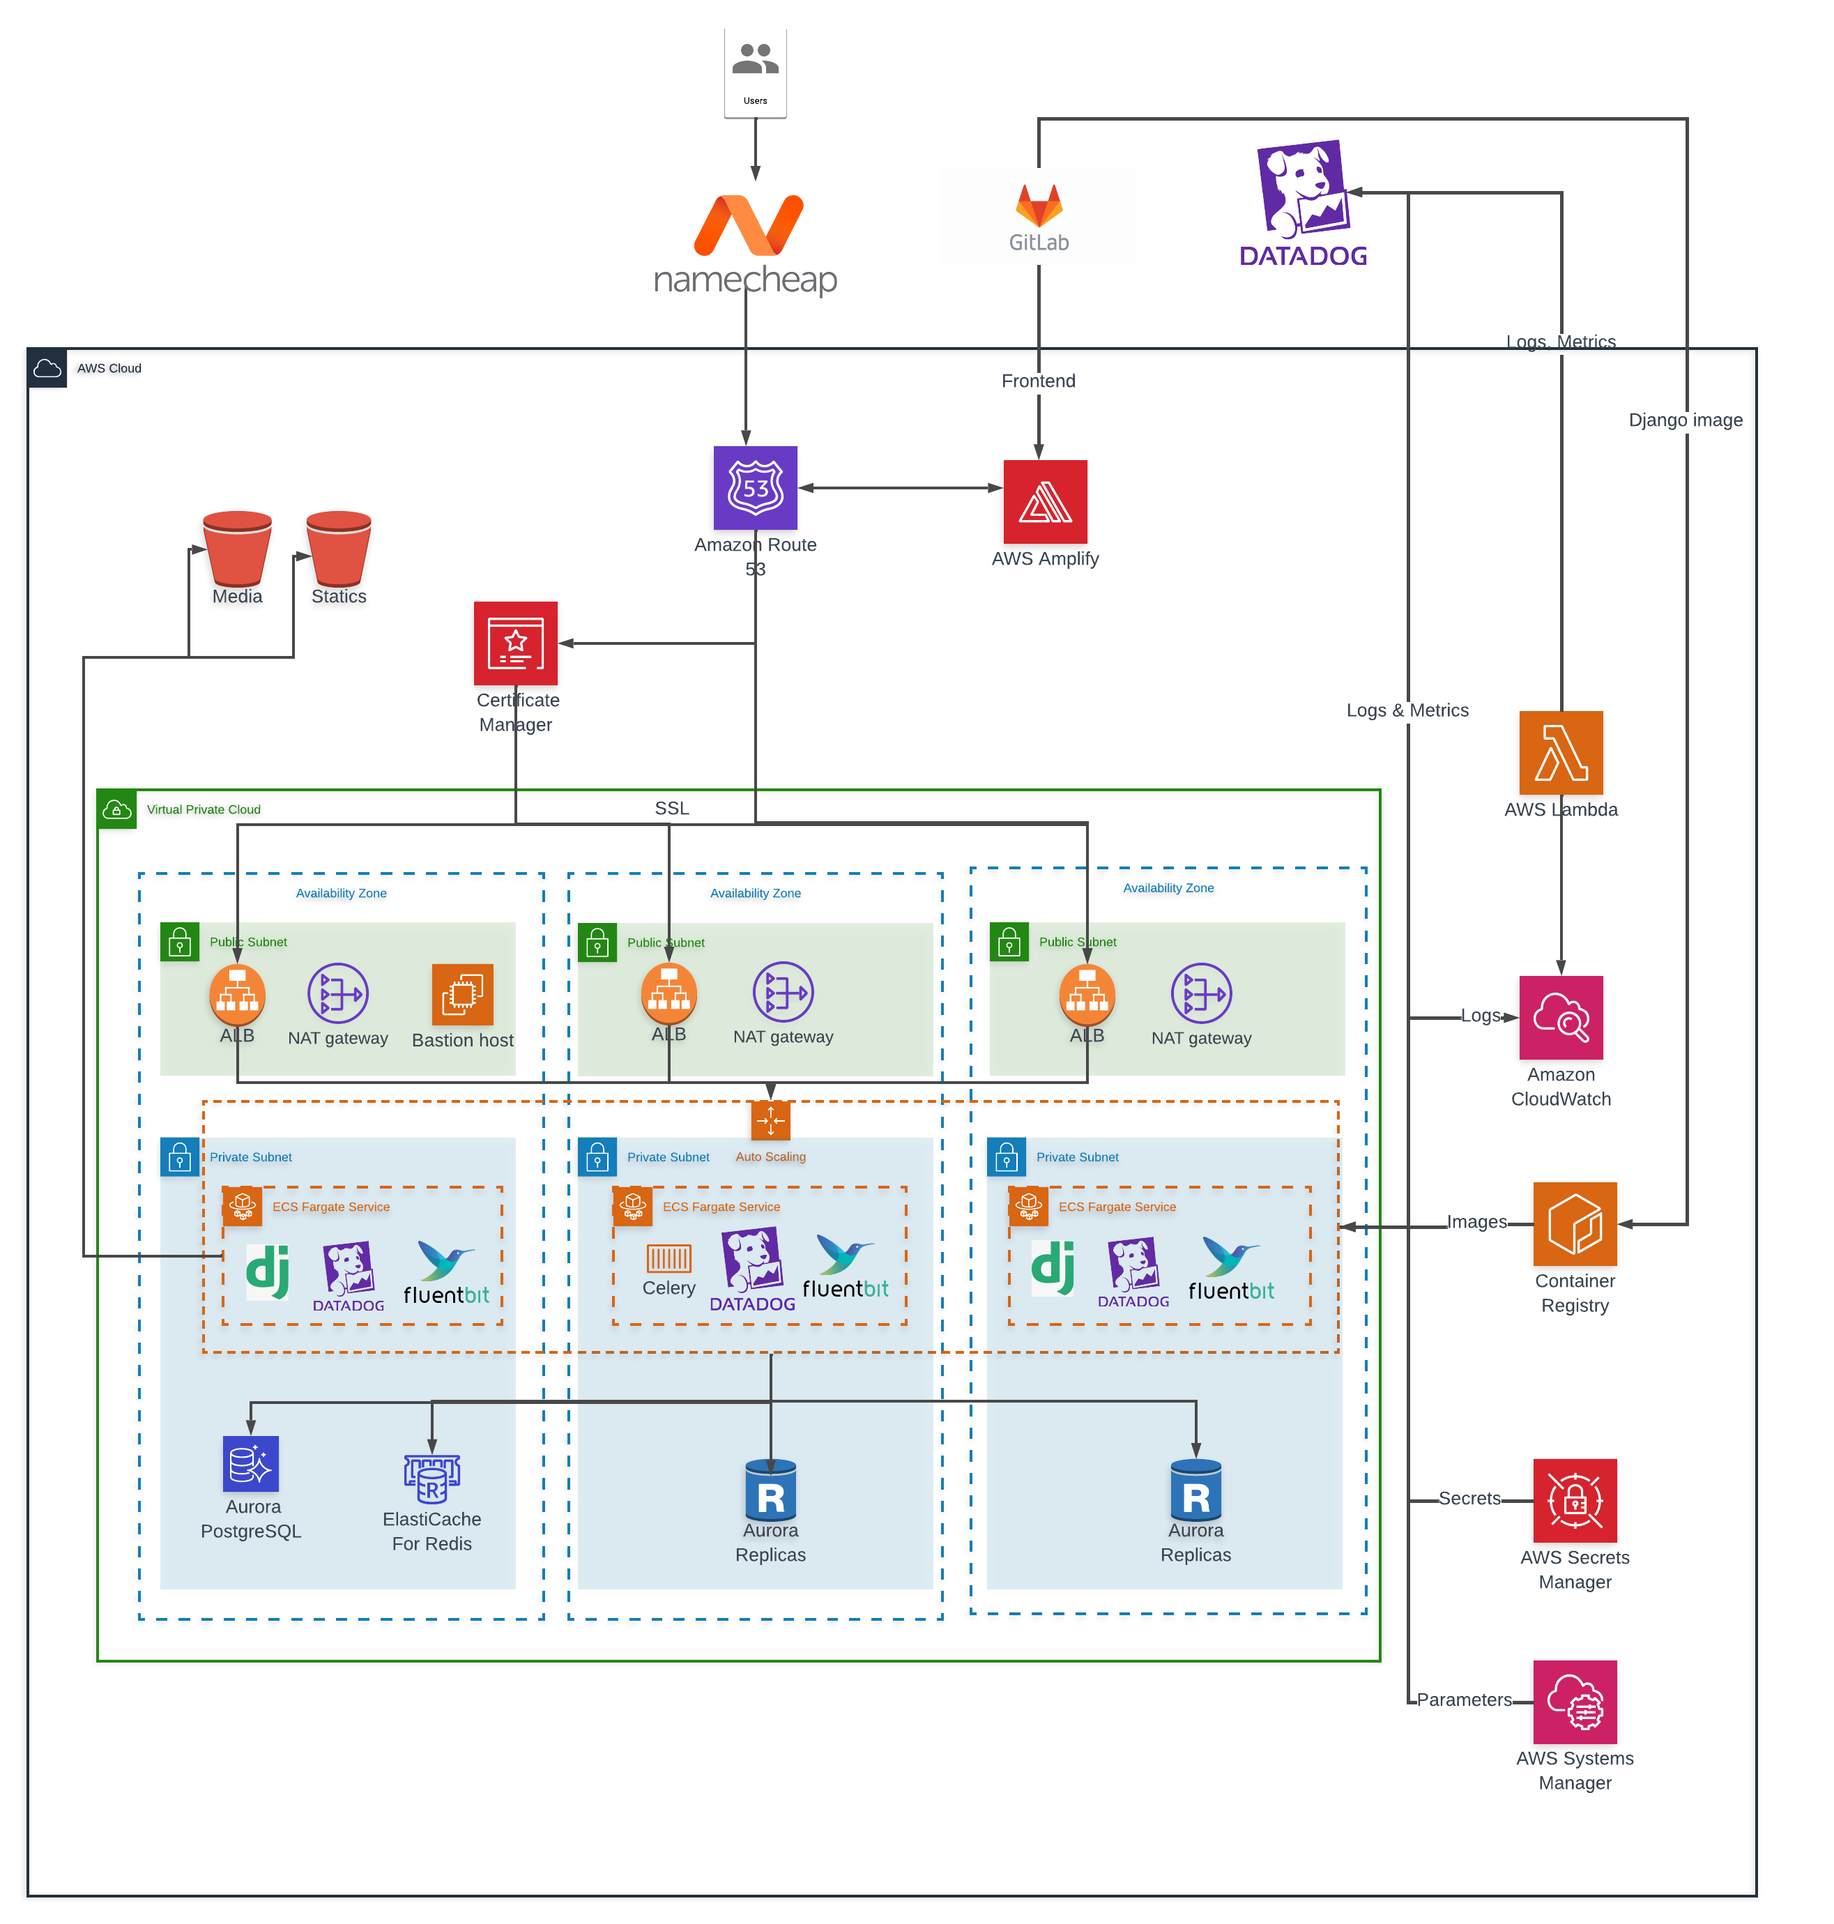
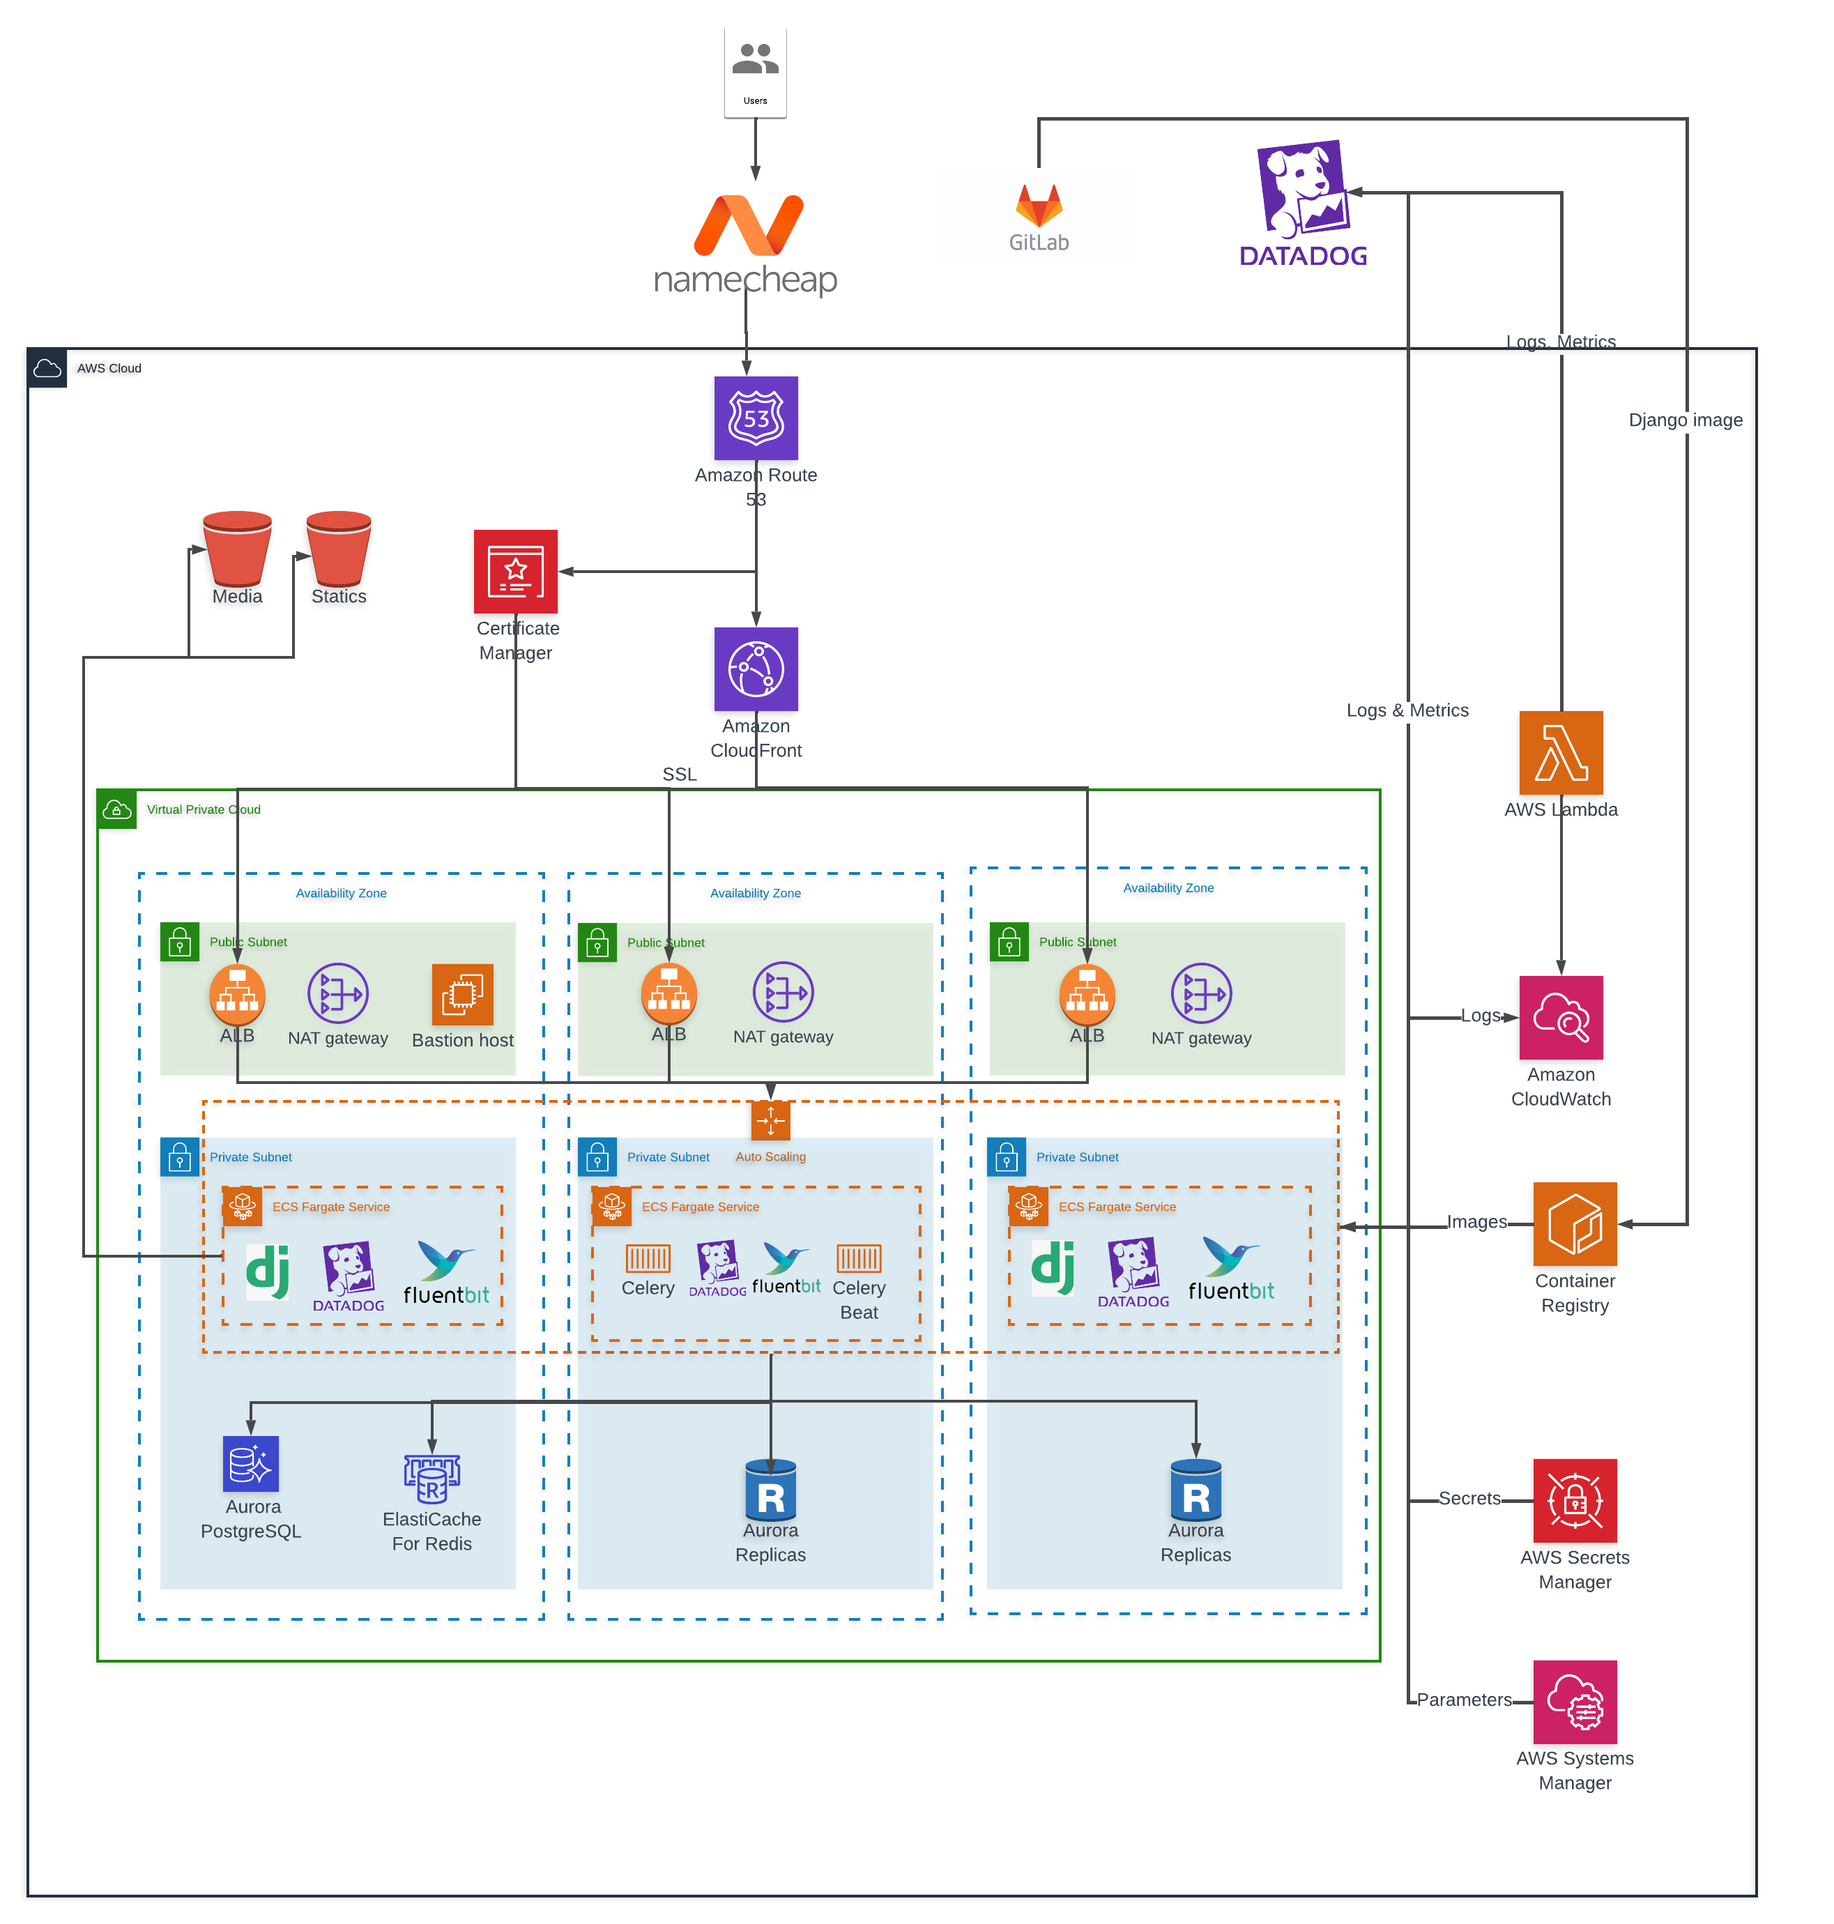
Autoscalling, Docker compose fix, Documentation

diff --git a/infrastructure/stacks/ecs.py b/infrastructure/stacks/ecs.py
@@ -6,6 +6,7 @@ import jsii
 from aws_cdk import aws_ecr, aws_ecs, aws_iam, aws_logs, aws_secretsmanager as secretsmanager, aws_ssm, Duration, Fn, \
     ITaggable, \
     NestedStack, RemovalPolicy
+from aws_cdk.aws_applicationautoscaling import MetricAggregationType, ScalingInterval
 from aws_cdk.aws_codedeploy import EcsApplication
 from aws_cdk.aws_ecs import Compatibility, ContainerImage, DeploymentController, DeploymentControllerType, \
     FargatePlatformVersion, FargateService, NetworkMode, PortMapping, TaskDefinition
@@ -305,12 +306,26 @@ class FargateApiServiceStack(NestedStack):
             targets=[self.service]
         )
 
-        scaling.scale_on_request_count(
-            f"{construct_id}-cpu-scaling",
-            requests_per_target=20,
-            target_group=target_group_blue
+        scaling.scale_on_cpu_utilization(
+            f"{construct_id}-cpu-target-scaling",
+            target_utilization_percent=20,
+            scale_in_cooldown=Duration.seconds(60),
+            scale_out_cooldown=Duration.seconds(300),
         )
 
+        scaling.scale_on_metric(
+            f"{construct_id}-cpu-scaling",
+            metric=self.service.metric_cpu_utilization(),
+            metric_aggregation_type=MetricAggregationType.MAXIMUM,
+            cooldown=Duration.seconds(200),
+            scaling_steps=[
+                ScalingInterval(lower=80, change=2),
+                ScalingInterval(lower=90, change=3),
+                ScalingInterval(upper=20, change=-1)
+            ]
+
+
+        )
         # Create Blue Green Deployment Application
         self.application = EcsApplication(self, f"{construct_id}-app", application_name=f"{construct_id}-application")
         self.deployment_group_name = f"{construct_id}-group"

diff --git a/locustfile.py b/locustfile.py
@@ -3,6 +3,7 @@ from locust import between, HttpUser, task
 
 class QuickstartUser(HttpUser):
     wait_time = between(1, 5)
+    jwt_token = "JWT "
 
     @task
     def series(self):
@@ -19,3 +20,12 @@ class QuickstartUser(HttpUser):
     @task
     def featured(self):
         self.client.get("/v1/groups/public/conversations/webinars/featured")
+
+    @task
+    def connect(self):
+        self.client.post(
+            "/v1/integrations/dyte/participant/74/connect/",
+            headers={
+                "Authorization": self.jwt_token
+            }
+        )

diff --git a/infrastructure/stacksets/base.py b/infrastructure/stacksets/base.py
@@ -172,6 +172,8 @@ class BackendStack(Stack):
             secret_string_beta1=aws_secretsmanager.SecretStringValueBeta1.from_token(
                 dyte_user_access_key.secret_access_key.to_string())
         )
+        self.media_bucket.grant_read_write(dyte_user)
+        self.media_bucket.grant_put_acl(dyte_user)
         self.service = FargateApiServiceStack(
             self,
             f"{construct_id}-django-service",

diff --git a/README.md b/README.md
@@ -1,6 +1,7 @@
 # Backend
 
 ## Stack
+
 - Python 3.8
 - Django
 - Celery
@@ -8,20 +9,22 @@
 - Redis
 - PostgreSQL
 
-
 ## Get started
 
 ### Local setup
 
 Start local dev server:
+
 ```sh
 pip install -r requirements.txt
 ./bin/develop.sh
 ```
 
 ### Docker setup
-Get latest docker & docker-compose:  
-- https://www.docker.com/  
+
+Get latest docker & docker-compose:
+
+- https://www.docker.com/
 - https://docs.docker.com/compose/
 
 ```sh
@@ -30,84 +33,198 @@ docker-compose up -d
 
 Wait for docker to set up containers, then open [http://localhost:8000](http://localhost:8000)
 
+## AWS CLI
 
-# CDK AWS infrastructure 
+AWS CLI is needed to
 
+- Login to AWS ECR repository
+- Deploy CDK stacks
+- Retrieve secrets from AWS secrets manager
+
+[AWS CLI Installation](https://docs.aws.amazon.com/cli/latest/userguide/getting-started-install.html)
+
+[AWS CLI Configuration](https://docs.aws.amazon.com/cli/latest/userguide/cli-configure-quickstart.html)
+
+# CDK AWS infrastructure
 
 CDK installation
 
-```
+```bash
 sudo npm install -g aws-cdk@latest
 ```
 
 Python dependencies can be installed via **pip** or **piptools**
-```
+
+```bash
 pip install -r infrastructure/requirements.txt
 ```
 
+- [CDK applications files](infrastructure/app.py)
+    - worknetwork-api - Stack with ECR repository which is used in prod and dev stacks
+    - worknetwork-api-prod - Production environment resources stack
+    - worknetwork-api-dev - Development environment resources stack
+- [CDK stacks environment configurations and settings](infrastructure/conf.py)
+- [Main infrastructure stack](infrastructure/stacksets/base.py) - File where nested stacks are used and whole
+  infrastructure components are connected
+- [Nested stacks](infrastructure/stacks/stacks) - Seperate nested stacks, used to group needed resources per service (
+  DB, ALB, ECS...)
+
 ## Useful commands
 
- * `cdk ls`          list all stacks in the app
- * `cdk synth`       emits the synthesized CloudFormation template
- * `cdk deploy`      deploy this stack to your default AWS account/region
- * `cdk diff`        compare deployed stack with current state
- * `cdk docs`        open CDK documentation
+* `cdk ls`          list all stacks in the app
+* `cdk synth`       emits the synthesized CloudFormation template
+* `cdk deploy`      deploy this stack to your default AWS account/region
+* `cdk diff`        compare deployed stack with current state
+* `cdk docs`        open CDK documentation
 
+```bash
+cdk diff worknetwork-api-dev - # Shows what changes would be made if stack would be deployed
+cdk delploy worknetwork-api-dev - # Stars development stack deployment
+```
+
+If stacks fail to deploy and console does not show proper error message
+Exploring [Cloudformation console](https://ap-south-1.console.aws.amazon.com/cloudformation/)  during redeployment of
+the stack can help
+
+- [CDK API References](https://docs.aws.amazon.com/cdk/api/v2/python/index.html)
+- [CDK Developers guide](https://docs.aws.amazon.com/cdk/v2/guide/home.html)
 
 # Infrastructure
 
 ![deploy](infrastructure.png)
 
-[Link to edit]( https://lucid.app/lucidchart/902bc797-1bf9-416d-a671-f8e92649ffc9/edit?invitationId=inv_f6767c0d-1cbc-4248-b896-40c275cabecb).
+[Link to edit](https://lucid.app/lucidchart/902bc797-1bf9-416d-a671-f8e92649ffc9/edit?invitationId=inv_f6767c0d-1cbc-4248-b896-40c275cabecb)
+.
 
-### VPC
+### [VPC](https://ap-south-1.console.aws.amazon.com/vpc/home?region=ap-south-1#vpcs:)
 
- - NAT instances to allow internet access from private subnets
-   - For cost savings it is enabled in only one AZ
- - Bastion host to enable access to vpc
+- Private Subnets (Not reachable from outside internet, ECS containers, RDS databases, Cache instances)
+- Public Subnets (Not reachable from outside internet (Load balancers, Bastion host, NAT gateways/instances))
+- NAT instances to allow internet access from private subnets
+    - For cost savings it is enabled in only one AZ
+- Bastion host to enable access to VPC
 
-### Load balancer 
-- Application Load balancers which forward traffic and monitor ecs services
+[More on AWS Virtual private cloud](https://docs.aws.amazon.com/vpc/latest/userguide/what-is-amazon-vpc.html)
+
+### [Load balancer](https://ap-south-1.console.aws.amazon.com/ec2/v2/home?region=ap-south-1#LoadBalancers:sort=loadBalancerName)
+
+- Application Load balancers which forward traffic and monitor ECS services
 - SSL Certificates are taken from ACM
+- Port 433 Main traffic listener
+- Port 8433 Test traffic listener
+- Port 80(HTTP) Redirect to 433 (HTTPS)
 
-### Databases
-- Aurora PostgreSQL in **private subnet**
-- PostgreSQL in **private subnet**
+[Target Groups](https://ap-south-1.console.aws.amazon.com/ec2/v2/home?region=ap-south-1#TargetGroups:)
 
-### Elastic container service
-Django service consists of 
-- Django application
-- Celery
-- Datadog Daemon
-- FluentBit Log shipper
+- Blue target group
+- Green target group
 
-### S3 buckets
-- Media uploads bucket
-- Static files buckets
-  - During deployment, django static files are collected in folder named from RELEASE env variable (commit short sha)
+[More on Elastic Load Balancing](https://docs.aws.amazon.com/elasticloadbalancing/latest/userguide/what-is-load-balancing.html)
 
-    
+### [Databases](https://ap-south-1.console.aws.amazon.com/rds/home?region=ap-south-1#databases:)
+
+- [PostgreSQL for Dev](https://docs.aws.amazon.com/AmazonRDS/latest/UserGuide/CHAP_PostgreSQL.html)
+- [Aurora PostgreSQL for Prod](https://docs.aws.amazon.com/AmazonRDS/latest/AuroraUserGuide/CHAP_AuroraOverview.html)
+
+### [Elastic container service ](https://ap-south-1.console.aws.amazon.com/ecs/home?region=ap-south-1#/clusters)
+
+**Django** service consists of
+
+- **Django** application running on Uvicorn server
+- **Datadog agent** - Application and container metrics collector shipper to Datadog site
+- **FluentBit** Logs shipper to Datadog site
+
+**Celery** service consists of:
+- **Celery** worker - Celery task executor
+- **Celery Beat** worker - Celery task scheduler
+- **Datadog agent** 
+- **FluentBit** 
+
+Resources:
+
+- [Dev Cluster](https://ap-south-1.console.aws.amazon.com/ecs/home?region=ap-south-1#/clusters/worknetwork-api-dev-cluster/services)
+- [Prod Cluster](https://ap-south-1.console.aws.amazon.com/ecs/home?region=ap-south-1#/clusters/worknetwork-api-prod-cluster/services)
+- [Container parameters](https://ap-south-1.console.aws.amazon.com/systems-manager/parameters/?region=ap-south-1&tab=Table)
+- [Container secrets](https://ap-south-1.console.aws.amazon.com/secretsmanager/home?region=ap-south-1#!/listSecrets/)
+
+[More on ECS](https://docs.aws.amazon.com/AmazonECS/latest/developerguide/Welcome.html)
+
+### Cache
+
+- [ElastiCache for Redis](https://ap-south-1.console.aws.amazon.com/elasticache/home?region=ap-south-1#redis:)
+
+### DNS
+
+Domain is registered in NameCheap, but it is using AWS Nameservers
+
+- [Route53](https://ap-south-1.console.aws.amazon.com/route53/v2/hostedzones#)
+- [SSL Certificates](https://ap-south-1.console.aws.amazon.com/acm/home?region=ap-south-1#/certificates/list)
+
+### Certificates
+- Certificates are created and stored in [AWS Certificate Manager (ACM)](https://ap-south-1.console.aws.amazon.com/acm/home?region=ap-south-1#/certificates/list)
+- Certificates for Cloudfront have to be created in **us-east-1** region
+### CDN
+Cloudfront is used cache responses from Django application. Origin is set to Application Load balancer.
+- [Dev distribution](https://us-east-1.console.aws.amazon.com/cloudfront/v3/home?region=ap-south-1#/distributions/E3JM6EI50YBEE3)
+- [Prod distribution](https://us-east-1.console.aws.amazon.com/cloudfront/v3/home?region=ap-south-1#/distributions/E180SGZQFFNT2N)
+
+[More on Cloudfront](https://docs.aws.amazon.com/AmazonCloudFront/latest/DeveloperGuide/Introduction.html)
+
+### [S3 buckets](https://s3.console.aws.amazon.com/s3/home?region=ap-south-1#)
+
+- Media uploads bucket - Uploads from django application with public/private object acls
+- Static files buckets - Bucket with public read access to serve django static files
+
+## [CodeDeploy](https://ap-south-1.console.aws.amazon.com/codesuite/codedeploy/applications?region=ap-south-1)
+
+- For ECS service
+  deployment [Blue Green Deployment](https://docs.aws.amazon.com/AmazonECS/latest/developerguide/deployment-type-bluegreen.html)
+  is used
+
+[More on AWS CodeDeploy](https://docs.aws.amazon.com/codedeploy/latest/userguide/welcome.html)
+
 ### Gitlab Pipelines
 
+[CI file](.gitlab-ci.yml)
 
-### Pull requests
+- Requirements check - Checking if requirements.txt and Dockerfile changed. If so, rebuild base images
+- Building - Building main Application image with Base images from Requirements check step
+- Testing - Checking AWS CDK changes
+- Deploy infrastructure - Deploying AWS CDK (if nothing is changed, new task definition with changed image tag is deployed)
+- Deploy Django app - Deploying new task definition to Django Service
+- Deploy Celery app - Deploying new task definition to Celery Service
 
 ### Manual Image building and pushing to ECR
 
-Retrieve an authentication token and authenticate your Docker client to your registry.
-Use the AWS CLI:
+Retrieve an authentication token and authenticate your Docker client to your registry. Use the AWS CLI:
+
 ```bash
 aws ecr get-login-password --region ap-south-1 | docker login --username AWS --password-stdin 682452685130.dkr.ecr.ap-south-1.amazonaws.com
 ```
-Build your Docker image using the following command. For information on building a Docker file from scratch see the instructions here . You can skip this step if your image is already built:
+
+Build your Docker image using the following command. For information on building a Docker file from scratch see the
+instructions here . You can skip this step if your image is already built:
+
 ```bash
-docker build -t django .
+docker build -t 682452685130.dkr.ecr.ap-south.amazonaws.com/worknetwork:latest .
 ```
-After the build completes, tag your image so you can push the image to this repository:
-```bash
-docker tag django:latest 682452685130.dkr.ecr.ap-south.amazonaws.com/worknetwork:latest
-```
+
 Run the following command to push this image to your newly created AWS repository:
+
 ```bash
 docker push 682452685130.dkr.ecr.ap-south.amazonaws.com/worknetwork:latest
 ```
+
+
+# Load Testing
+
+Locust is used for load testing
+
+Quickstart
+```bash
+pip install locust
+locust
+```
+Endpoinds to test are create in [locustfile](locustfile.py)
+
+[More on locust](http://docs.locust.io/en/stable/)
